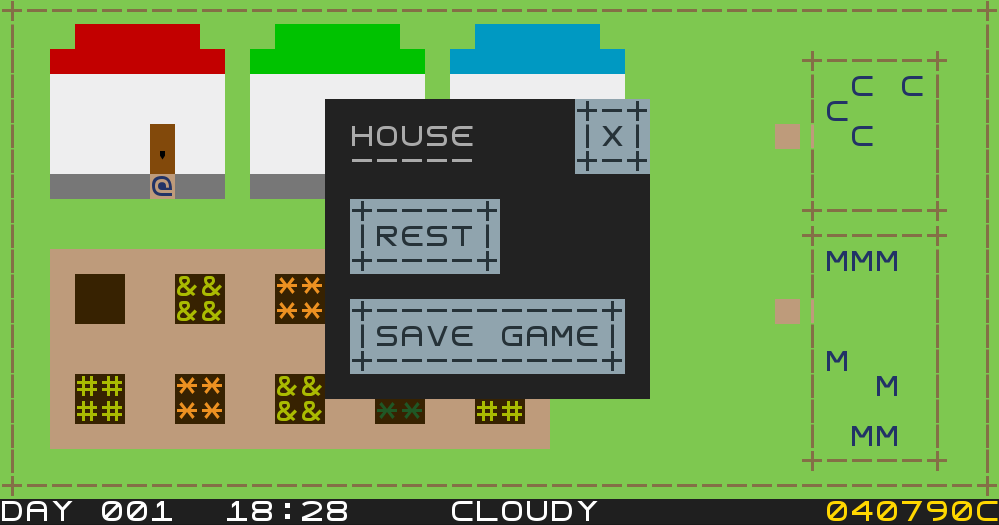
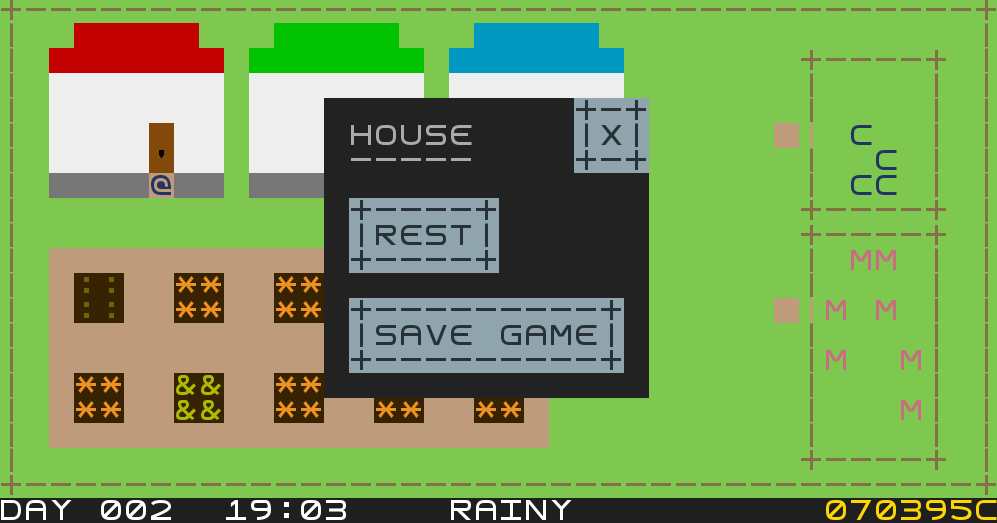
Updates report and adds several images to root folder README

diff --git a/docs/README.md b/docs/README.md
@@ -20,46 +20,28 @@ way.
 - **Interaction with crop fields** - Buildings and crop fields have light brown paths to mark
 interactive positions. Pressing the SPACE bar when the farmer is in one such
 position will trigger an interaction with that building (typically opening a
-popup menu). For now, only crop fields have an action associated.
+popup menu).
 - **Popup Menus** - Popup menus are UI elements with labels and buttons that may be
 clicked with the mouse (and are highlighted when hovered with the mouse).
 These popups do not occupy the whole screen, so it is still possible to see
 part of the farm. When a popup is opened, time in the farm passes as normal.
-Right now, the menus implemented are used to plant, remove or harvest crops.
-Note that, even though the popup menus themselves are implemented, their
-automatic closing when the associated crop field changes state is not yet
-implemented.
-- **Crop field** - The crop field is used to plant crops. Right now, only
-wheat can be planted. After planting, the crop takes some time to grow, during
-which the farmer may remove the crop if he changes his mind. The gradual growth
-of the crop may be seen visually when looking at the crop field, as the crops
-get bigger as the harvest time is approaching. When the crop is ready to harvest
-the farmer may harvest it. However, nothing will be given in return for now, as
-the inventory and warehouse are not yet implemented.
+- **Crop field** - The crop field is used to plant crops. After planting,
+the crop takes some time to grow, during which the farmer can remove the crop
+if he changes his mind. The gradual growth of the crop may be seen visually when
+looking at the crop field, as the crops get bigger as the harvest time is approaching.
+When the crop is ready to harvest the farmer may harvest it and get the harvested
+quantity.
+- **Crops** - The farmer is able to plant several crops, with different attributes:
+wheat, corn, carrots and parsley.
 - **HUD** - At the bottom of the farm screen, a HUD bar is displayed where the current
-time and weather may be seen.
+time, weather and the money may be seen.
 - **Weather** - From time to time (by random chance based on the current weather),
 the weather can change, with possible weathers being sunny, cloudy, rainy,
-windstorm and thunderstorm. For now, even though the weather may be seen
-in the HUD bar, it has no other game effect.
-
-### The farm with the farmer next to his home and a cropfield.
-
-![docs/screenshots/farm.png](screenshots/farm.png)
-
-### An example of a popup menu
-
-![docs/screenshots/popup_menu.png](screenshots/popup_menu.png)
-
-### A wheat crop in one of its earlier growth stages
-
-![docs/screenshots/crop_growing.png](screenshots/crop_growing.png)
-
-
-## PLANNED FEATURES
-
-- **More crops** - Instead of just being able to plant wheat, plant other
-crops with different attributes, such as corn, tomatoes, carrots, potatoes...
+windstorm and thunderstorm.
+- **Weather effects** - The current weather may affect the crop fields and animals
+(positively or negatively). For example, a sunny weather may dry the plants, but
+a windstorm may damage them. Also, after the plant is ready to harvest, a rainy weather instead
+of boosting the plants, will rot them.
 - **Resting** - The farmer may enter the house to rest at any time, making
 the in game time go faster so that the player doesn't have to wait so long for
 the crops to grow.
@@ -71,9 +53,6 @@ there is currently a save, it may be loaded, and the player may exit the game.
 Additionally, while in game, the player may pause the game with the ESCAPE button,
 which will stop time in game and open a popup menu asking if the user wants to return
 to the main menu.
-- **Weather effects** - The current weather may affect the crop fields and animals
-(positively or negatively). For example, a sunny weather may dry the plants, but
-a windstorm may damage them.
 - **Inventory and warehouse** - When the farmer harvests crops or gets products
 from animals, they are stored in the warehouse. The farmer may go to the warehouse
 to see the products currently stored. Be careful, however, as there is a limit
@@ -83,10 +62,28 @@ for more products, any new products obtained will be discarded.
 - **Market and currency** - The market is where the farmer may go to sell the
 products obtained in order to get money and to expand the farm by building more
 crop fields or stockyards. Any new constructions must be placed without
-intersecting existing constructions.
+intersecting existing constructions. Furthermore, inside the market build sub-menu
+it is possible to demolish constructions in the farm.
 - **Animals** - Besides crop fields, the farm may also have stockyards. The
 animals must be fed in order to produce something. For example, the farmer may
-feed cows with wheat, wait some time, and then obtain milk from the cows.
+feed cows with wheat, wait some time, and then obtain milk from the cows. In the case
+of chickens, they are fed with corn, and after some time they produce eggs.
+
+### Farm overview while the farmer is resting
+
+![docs/screenshots/resting.png](screenshots/resting.png)
+
+### The crop field plant menu
+
+![docs/screenshots/plant_menu.png](screenshots/plant_menu.png)
+
+### Farmer trying to build a new crop field in an invalid position
+
+![docs/screenshots/new_building_blocked.png](screenshots/new_building_blocked.png)
+
+
+## PLANNED FEATURES
+
 - **Tools** - Some tools may be bought (and possibly upgraded) from the market
 to aid the farmer in his work. There are many possible examples. A water bucket may
 be filled in a fountain and used to water the plants the animals (which gives
@@ -98,27 +95,6 @@ to the main buildings. Upgrading the House will make the time pass faster
 while resting (it's easier to rest in a comfortable house). Upgrading the
 market will increase the sell price of items and decrease the buying price.
 Upgrading the warehouse will increase its capacity.
-
-### Main menu Mockup
-
-![mockups/main_menu.png](mockups/main_menu.png)
-
-### Farm with buildings, crop fields and animals
-
-![mockups/farm_buildings_cropfields_animals.png](mockups/farm_buildings_cropfields_animals.png)
-
-### Sell menu
-
-![mockups/sell_menu.png](mockups/sell_menu.png)
-
-### Select place for new building
-
-When the player wants to build a new building, he can control a rectangle
-that represents the space occupied by the new building. In this case the
-rectangle is red because the current place overlaps with existing buildings,
-thus the player cannot select that place.
-
-![mockups/place_build.png](mockups/place_build.png)
 
 ## DESIGN
 
@@ -150,7 +126,7 @@ The following diagram shows how the pattern’s roles were mapped to the applica
 These classes can be found in the following files:
 - [GameController](../src/main/java/controller/GameController.java)
 - [GameControllerState](../src/main/java/controller/GameControllerState.java)
-- [FarmController](../src/main/java/controller/farm/FarmWithFarmerController.java)
+- [FarmController](../src/main/java/controller/farm/FarmController.java)
 - [MenuController](../src/main/java/controller/menu/MenuController.java)
 - [PopupMenuController](../src/main/java/controller/menu/PopupMenuController.java)
 
@@ -185,7 +161,7 @@ by setting the GameController state to the PopupMenuController's inner state.
 With this pattern, the behavior of existing states was extended without making
 a new subclass for each. Furthermore, the **Single Responsibility Principle**
 and the **Open/Closed Principle** are conserved as this new class has the sole
-responsibility of adding/removing behavior to existing classes at runtime instead  
+responsibility of adding/removing behavior to existing classes at runtime instead 
 of modifying their code directly.
 
 #### Implementation
@@ -197,7 +173,7 @@ shows the use of the decorator pattern in the viewer.
 These classes can be found in the following files:
 - [GameController](../src/main/java/controller/GameController.java)
 - [GameControllerState](../src/main/java/controller/GameControllerState.java)
-- [FarmController](../src/main/java/controller/farm/FarmWithFarmerController.java)
+- [FarmController](../src/main/java/controller/farm/FarmController.java)
 - [MenuController](../src/main/java/controller/menu/MenuController.java)
 - [PopupMenuController](../src/main/java/controller/menu/PopupMenuController.java)
 
@@ -211,20 +187,12 @@ These classes can be found in the following files:
 The use of the Decorator pattern to solve this problem has the following benefits:
 - New states of the controller can have popup menus using this same decorator.
 - PopupMenuControllers implement GameControllerState, so they may wrap other popups.
-Nesting popups may be useful in the future, for example, to open confirmation windows
-inside popup menus.
-
-However, in the case of the popup menu for a crop field in the Planted state,
-if its state changes to ReadyToHarvest while the menu is open, it has no way
-of knowing it, and thus will remain open even though its existence no longer
-makes sense. This is not caused by oversight, but is actually a longstanding
-issue that remained even after trying to think of alternatives to the implementation
-design of the menus. It is not known whether it is a fundamental flaw of the
-currently chosen design, however no good solution (i.e. not hacky) was found
-for this problem as of the time of the delivery of the intermediate report.
-This issue will be fixed after the delivery intermediate report.
+Nesting popups is in itself very useful as it allows, for example, the use of 
+confirmation windows inside popup menus.
 
 ### Action of the buttons
+//TODO isto precisa de ser revisto uma vez que os botões deixaram de guardar os comandos,
+passadno eles a estar nos ButtonController
 #### Problem in Context
 The menus are composed of a list of buttons and labels. Each button is intended
 to produce a certain action specific to that button on click. This means that
@@ -258,10 +226,10 @@ These classes can be found in the following files:
 - [Button](../src/main/java/model/menu/Button.java)
 - [Command](../src/main/java/controller/command/Command.java)
 - [CompoundCommand](../src/main/java/controller/command/CompoundCommand.java)
-- [HarvestCropCommand](../src/main/java/controller/command/crop_field/HarvestCropCommand.java)
-- [PlantCropCommand](../src/main/java/controller/command/PlantCropCommand.java)
-- [OpenPopupMenuCommand](../src/main/java/controller/command/OpenPopupMenuCommand.java)
-- [SetControllerStateCommand](../src/main/java/controller/command/SetControllerStateCommand.java)
+- [HarvestCropCommand](../src/main/java/controller/command/farm/crop_field/HarvestCropCommand.java)
+- [PlantCropCommand](../src/main/java/controller/command/farm/crop_field/PlantCropCommand.java)
+- [OpenPopupMenuCommand](../src/main/java/controller/command/controller_state/OpenPopupMenuCommand.java)
+- [SetControllerStateCommand](../src/main/java/controller/command/controller_state/SetControllerStateCommand.java)
 - [CropField](../src/main/java/model/farm/building/crop_field/CropField.java)
 - [GameController](../src/main/java/controller/GameController.java)
 
@@ -315,15 +283,15 @@ The following diagram shows how the pattern’s roles were mapped to the applica
 These classes can be found in the following files:
 - [Command](../src/main/java/controller/command/Command.java)
 - [CompoundCommand](../src/main/java/controller/command/CompoundCommand.java)
-- [HarvestCropCommand](../src/main/java/controller/command/crop_field/HarvestCropCommand.java)
-- [SetControllerStateCommand](../src/main/java/controller/command/SetControllerStateCommand.java)
+- [HarvestCropCommand](../src/main/java/controller/command/farm/crop_field/HarvestCropCommand.java)
+- [SetControllerStateCommand](../src/main/java/controller/command/controller_state/SetControllerStateCommand.java)
 
 #### Consequences
 The use of the Composite pattern to solve this problem has the following benefits:
-- A button may store a command that is actually composed of many smaller commands
+- A ButtonController may store a command that is actually composed of many smaller commands
 without having to know it.
 - Code duplication is reduced as instead of many complex commands there is only
-need to implement a set simpler ones.
+need to implement a set of simpler ones.
 
 ### Define interaction of each building
 #### Problem in Context
@@ -356,10 +324,10 @@ Only some of the commands were included in the diagram.
 ![diagrams/implementation_p5.png](diagrams/implementation_p5.png)
 
 These classes can be found in the following files:
-- [BuildingController](../src/main/java/controller/farm/building/BuildingController.java)
+- [BuildingController](../src/main/java/controller/farm/element/building/BuildingController.java)
 - [Command](../src/main/java/controller/command/Command.java)
-- [CropFieldController](../src/main/java/controller/farm/building/CropFieldController.java)
-- [HouseController](../src/main/java/controller/farm/building/HouseController.java)
+- [CropFieldController](../src/main/java/controller/farm/element/building/CropFieldController.java)
+- [HouseController](../src/main/java/controller/farm/element/building/edifice/HouseController.java)
 
 #### Consequences
 The use of the Composite pattern to solve this problem has the following benefits:
@@ -373,55 +341,69 @@ be inserted without breaking existing code.
 
 ## KNOWN CODE SMELLS AND REFACTORING SUGGESTIONS
 
+
+
+## SOLVED CODE SMELLS
 ### Middle man
 
 Many of the viewer classes (for example, [FarmerViewer](../src/main/java/viewer/farm/element/entity/FarmerViewer.java))
-are **Middle Men** as their sole purpose is to delegate the drawing work
-to the respective drawer (gui) class. This adds needless complexity to the program
-and also makes testing the viewers harder (if the viewer is just delegating
+were **Middle Men** as their sole purpose was to delegate the drawing work
+to the respective drawer (gui) class. This added needless complexity to the program
+and also made testing the viewers harder (if the viewer is just delegating
 work to the drawer, its tests would be almost identical to the ones of the
-drawer and it can't be tested isolated from the drawer).
+drawer and it couldn't be tested isolated from the drawer).
+//TODO isto continua a ser verdade :(
 
-To improve the code, for each viewer we can use **Inline Class**,
+To improve the code, we used the **Inline Class** refactor,
 inlining the respective drawer class into the viewer class. In the concrete
-example given, the draw method of [FarmerDrawer](../src/main/java/gui/drawer/entity/FarmerDrawer.java)
-would be moved to [FarmerViewer](../src/main/java/viewer/farm/element/entity/FarmerViewer.java),
-replacing the viewer's *draw()* method that only delegates work.
-After that, [FarmerDrawer](../src/main/java/gui/drawer/entity/FarmerDrawer.java)
-should be removed.
+example given, the draw method of FarmerDrawer was moved to 
+[FarmerViewer](../src/main/java/viewer/farm/element/entity/FarmerViewer.java),
+replacing the viewer's *draw()* method that only delegated work.
+After that, FarmerDrawer was removed.
 
 ### Data class
 
-The classes in [model.weather](../src/main/java/model/weather) and in
-[model.farm.crop](../src/main/java/model/farm/building/crop_field/crop)
-are **Data classes** that only store constants and include getters for
-those constants. These classes only bloat the code and could be replaced
+The classes that were in model.weather and in model.farm.crop
+were **Data classes** that only stored constants and included getters for
+those constants. These classes only bloated the code and were replaced
 with concrete instances of a single class.
 
-A solution can be, for each of the mentioned packages, to store the relevant
+The solution was, for each of the mentioned packages, to store the relevant
 constants in a file and use **Collapse Hierarchy**, merging the classes
 of each of those packages into a single class. The set of concrete instances
-can then be loaded from the file.
+was then loaded from the file.
 
 ### Duplicate code
 
-The classes in [controller.weather.state](../src/main/java/controller/farm/weather/state)
-have very similar logic in their *updateWeather* methods. Besides being
-**Duplicate code**, it is a **long chain of if statements** that makes it harder
+The classes that were in controller.weather.state had very similar logic in their 
+*updateWeather* methods. Besides being **Duplicate code**, it was a 
+**long chain of if statements** that made it harder
 to add more weathers or modify the behavior of existing ones.
 
-To solve this problem, it is a good idea first to solve the **Data Class** code
-smell identified in the previous section in the package [model.weather](../src/main/java/model/weather).
-The created file that stores the constants for each weather may also store the probabilities
-of weather change. This means that weather instance passed to *updateWeather*
-may contain the information relative to those probabilities. Replace the chained
-if statements with a for loop iterating through all probabilities and
-respective weather changes. Then, we can use **Collapse Hierarchy** to merge
-all the classes in [controller.weather.state](../src/main/java/controller/farm/weather/state),
-because at this point they will have identical *updateWeather* methods. Finally,
-the resulting class can be inlined in [WeatherController](../src/main/java/controller/farm/weather/WeatherController.java)
-because it no longer makes sense to have a state and thus both classes have the
+To solve this problem, we first solved the **Data Class** code
+smell identified in the previous section in the package model.weather.
+The created file that stores the constants for each weather also stores the probabilities
+of weather change. This means that the weather instance passed to *updateWeather*
+contains the information relative to those probabilities. The chained
+if statements were replaced with a for loop iterating through all probabilities and
+respective weather changes. Then, we used **Collapse Hierarchy** to merge
+all the classes in controller.weather.state, because at that point they had 
+identical *updateWeather* methods. Finally, the resulting class was inlined 
+in [WeatherController](../src/main/java/controller/farm/element/WeatherController.java)
+because it no longer made sense to have a state and thus both classes had the
 same responsibility.
+
+""" TODO new design sections:
+- However, in the case of the popup menu for a crop field in the Planted state,
+if its state changes to ReadyToHarvest while the menu is open, it has no way
+of knowing it, and thus will remain open even though its existence no longer
+makes sense. This is not caused by oversight, but is actually a longstanding
+issue that remained even after trying to think of alternatives to the implementation
+design of the menus. It is not known whether it is a fundamental flaw of the
+currently chosen design, however no good solution (i.e. not hacky) was found
+for this problem as of the time of the delivery of the intermediate report.
+This issue will be fixed after the delivery intermediate report.
+"""
 
 ## OTHER KNOWN PROBLEMS
 
